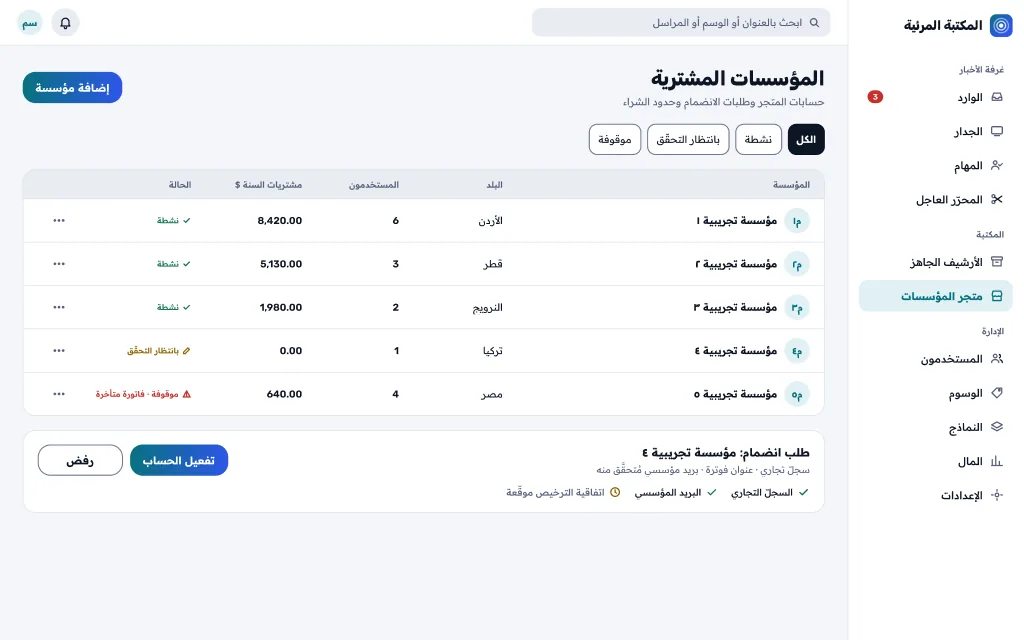
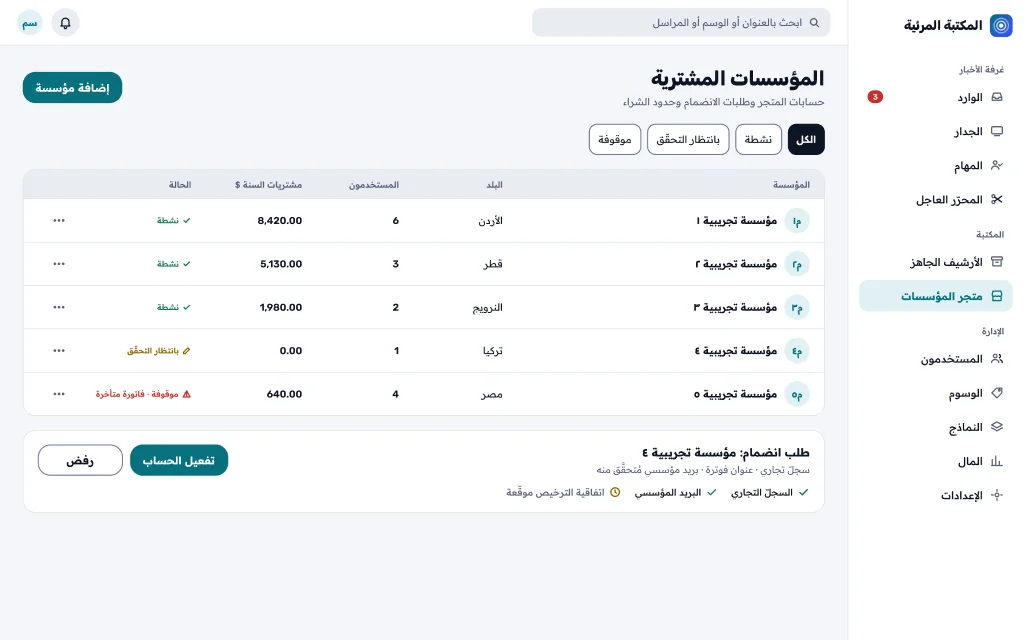
design: web follow-ups after #460
- Primary buttons on every merged web screen are Solid now: A1 to A6,
  W7, W8 and P1 were still on the gradient that the spec reserves for
  the reporter app's send button. Re-exported.
- S4: the order column shows the short order UUID, as in S7, and the
  note says a licence is tied to its order (no invoice object yet).
- S3: the summary shows the total only (no subtotal or tax lines),
  consistent with S7 and the contract.
- Upload stages: the duplicate card's footnote is written for the
  producer, and the invalid_file copy no longer mentions images.
- web-v2.md: English strings for S5 to S7 and the upload stages, with
  proposed message keys.
- Checked W3, W4 and every other merged web frame: no test source is
  shown as the real network; only the platform brand remains.

Claude-Session: https://claude.ai/code/session_01HY7py4Kwox1KypVxZuFGKP

Changed region(s): [[0.0312, 0.0938, 0.125, 0.1875], [0.125, 0.6875, 0.2188, 0.75]]

diff --git a/docs/design/specs/web-v2.md b/docs/design/specs/web-v2.md
@@ -35,8 +35,8 @@
 | W10 | لوحة التنبيهات | تنسدل من الجرس؛ تبويبات الكل/مهامي/المتجر؛ العاجل والحسّاس أولًا بأيقونة وكلمة |
 | S1 | المتجر: الكتالوج | بحث بالحدث والمكان والتاريخ؛ شرائح المحافظة؛ لا اسم مراسل ولا مصدر |
 | S2 | المتجر: صفحة المادة | معاينة بعلامة مائية وجودة أقل؛ «صُوّر» بالتاريخ؛ المحافظة وحدها؛ ثلاثة تراخيص بسعر كلٍّ منها؛ زرّ أساسي واحد |
-| S3 | السلة والدفع | رقم أمر شراء اختياري؛ سطر ثابت: «بيئة دفع تجريبية: لا يُخصم مال حقيقي» |
-| S4 | تراخيصي | الترخيص مرتبط بفاتورته وبصمة الملف؛ المنتهي كلمة بلون التحذير وزرّ «تجديد» |
+| S3 | السلة والدفع | الملخّص هو الإجمالي (`total`) وحده، بلا مجموع فرعي ولا ضريبة (فجوة عقد كما في S7)؛ رقم أمر شراء اختياري (ليس في `Order` بعد)؛ سطر ثابت: «بيئة دفع تجريبية: لا يُخصم مال حقيقي» |
+| S4 | تراخيصي | الترخيص مرتبط بطلبه، والطلب يُعرَّف بأول ثمانية محارف من معرّفه كما في S7، وببصمة الملف؛ المنتهي كلمة بلون التحذير وزرّ «تجديد» |
 | A1 | المستخدمون والأدوار | شارات الدور والحالة؛ مصفوفة «ما يستطيعه كل دور» بعلامة وكلمة |
 | A2 | الوسوم | المقترحة بترتيب ظهورها للمراسل؛ 1–40 حرفًا و12 وسمًا للمادة (ADR 0086)؛ الدمج يحفظ الأصل في السجلّ |
 | A3 | منشئ النماذج | إصدار للنموذج؛ التغيير يسري على الإرسالات الجديدة فقط؛ حقول العقد لا تُحذف؛ «المكان» موسوم «مشفّر» |
@@ -85,7 +85,7 @@
 | E5 | لا صلاحية | يقول الدور وما يملكه؛ والشريط الجانبي لا يعرض ما لا يملكه الدور (المحرّر: غرفة الأخبار والأرشيف). «اطلب الوصول» **مقترح** خارج الخطة والعقد، يحتاج موافقة المنسّق قبل بنائه (ومعه حدّ طول للسبب وتهريبه وتحديد معدّل وسجل تدقيق) |
 | E6 | المتجر بلا نتائج | يقول لماذا (المواد تظهر بعد المراجعة واعتماد الحقوق)، و«أشعرني حين تصل» (البحث المحفوظ بتنبيه في الخطة)؛ الفعل الأساسي ذهبي ثابت كما في S1 وS3 |
 
-**الأزرار:** الفعل الأساسي في الويب «Solid» ثابت؛ التدرّج لزرّ الإرسال في تطبيق المراسل وأيقونته وحدهما (`design-system-v2.md`). وزرّا A1 «دعوة مستخدم» وA4 «صرف المحدّد» المدموجان بالتدرّج يُصحَّحان مع شاشات الإدارة في طلب لاحق.
+**الأزرار:** الفعل الأساسي في الويب «Solid» ثابت؛ التدرّج لزرّ الإرسال في تطبيق المراسل وأيقونته وحدهما (`design-system-v2.md`). والأزرار الأساسية المدموجة بالتدرّج صارت «Solid» في A1 إلى A6 وW7 وW8 وP1.
 
 ## الإنجليزية والوضع الداكن لغرفة الأخبار (صفحة Figma `Web: EN, Dark & Flows`)
 
@@ -104,7 +104,7 @@
 | S5 | قبول الدعوة | رمز الدعوة يُسلَّم كرمز الاستعادة، فالصفحة إكمال استعادة (`/auth/recovery/complete`): كلمة مرور من 12 حرفًا فأكثر وتأكيدها، ثم ربط المصادقة الثنائية (TOTP)، وهو إلزامي عند أول دخول. الخطوتان ظاهرتان في رأس البطاقة. البريد محدّد بالدعوة ولا يُغيَّر. حساب العضو يُنشأ عند الدعوة (`inviteBuyerMember`، الحالة `invited`)، فسطر التجاهل يقول إن الرابط ينتهي وحده، ولا يعد بأن لا حساب. **فجوة عقد:** عرض اسم المؤسسة والدور والبريد يحتاج قراءة الدعوة برمزها، وهذه القراءة ليست في العقد. بدونها تعرض الصفحة «عيّن كلمة المرور» وحدها. إن أُضيفت فبثلاثة شروط: ردّ `401` واحد لرمز مجهول أو منتهٍ أو مستهلك (بلا مؤسسة ولا بريد ولا فرق في الزمن)، وحدّ معدّل بمفتاح بصمة الرمز كما في `/auth/recovery/complete`، ولا يُسجَّل الرمز |
 | S5b | رابط الدعوة غير صالح | العقد يردّ `401` للرمز المنتهي والمستهلك معًا، فالصفحة لا تعرف السبب: «لم يعد هذا الرابط صالحًا». الرابط لمدة أقصاها 24 ساعة (`invite_token_expires_at`). المخرج: «اطلب من مدير مؤسستك أن يدعوك من جديد». لا يقول هل البريد مسجَّل |
 | S6 | مؤسسة قيد التحقّق | `pending_verification` لا تشتري، والكتالوج يردّ `403 forbidden_scope`، فلا يُعرض كتالوج باهت. البطاقة تقول ما تراجعه الإدارة (البنود الثلاثة في A5)، بلا حالة لكل بند لأنها ليست في العقد. «ما تستطيعه الآن»: دعوة الأعضاء ضمن المقاعد (`seats` و`active_members`)، والعقد لا يمنع الدعوة قبل التفعيل. `suspended` بالنمط نفسه: الشراء والتنزيل الجديد متوقفان. **لا إشعار بالتفعيل** اليوم: لا حدث لتغيّر حالة المؤسسة ولا مُرسل إلى `billing_email`، فالبطاقة لا تعد به. إن أُريد فهو تغيير عقد (حدث في Outbox) |
-| S7 | الفاتورة | ورقة فاتحة (وضع `Light` صريح) داخل المتجر الداكن، فعلها «طباعة» من المتصفح. لافتة ثابتة: «مستند تجريبي وليس فاتورة ضريبية، ولم يُخصم مال حقيقي» ما دام المزوّد تجريبيًا. البيانات من `Order` (البنود وسعر كلٍّ منها و`total` و`paid_at`)، و`BuyerOrganization` (`legal_name` و`country` و`billing_email`)، و`License` (`license_number`). الطلب يُعرَّف بأول ثمانية محارف من معرّفه (UUID)، لأن `Order` بلا رقم مقروء. الأسعار بالدولار والعملة في رأس العمود، والإجمالي تحت الجدول هو `total` وحده. **فجوات عقد، فلا تُرسم:** كائن الفاتورة وترقيمها ورقم طلب مقروء، وبيانات المُصدِر القانونية (سطر مكانها يقول ذلك)، والمجموع الفرعي والضريبة (في الخطة تُطرح الضرائب من سعر البيع في معادلة النصيب، والأساس تختاره الإدارة)، وملف PDF للفاتورة (مقترح). ورقم أمر الشراء (هنا وفي S3) ليس في `Order` بعد، وسطر الضريبة في S3 المدموجة يُعالج بالطريقة نفسها في طلب لاحق |
+| S7 | الفاتورة | ورقة فاتحة (وضع `Light` صريح) داخل المتجر الداكن، فعلها «طباعة» من المتصفح. لافتة ثابتة: «مستند تجريبي وليس فاتورة ضريبية، ولم يُخصم مال حقيقي» ما دام المزوّد تجريبيًا. البيانات من `Order` (البنود وسعر كلٍّ منها و`total` و`paid_at`)، و`BuyerOrganization` (`legal_name` و`country` و`billing_email`)، و`License` (`license_number`). الطلب يُعرَّف بأول ثمانية محارف من معرّفه (UUID)، لأن `Order` بلا رقم مقروء. الأسعار بالدولار والعملة في رأس العمود، والإجمالي تحت الجدول هو `total` وحده. **فجوات عقد، فلا تُرسم:** كائن الفاتورة وترقيمها ورقم طلب مقروء، وبيانات المُصدِر القانونية (سطر مكانها يقول ذلك)، والمجموع الفرعي والضريبة (في الخطة تُطرح الضرائب من سعر البيع في معادلة النصيب، والأساس تختاره الإدارة)، وملف PDF للفاتورة (مقترح). ورقم أمر الشراء (هنا وفي S3) ليس في `Order` بعد |
 
 ## رفع المادة المُنتَجة (المونتير)
 
@@ -124,17 +124,75 @@
 | 5 | نتحقّق | `completed` | وصل الملف كاملًا والخادم يحسب البصمة. لا يُقبل قبلها |
 | 6 | اكتمل | `verified` | «وصل وتحقّقنا من بصمته»، و«استبدل الملف» قبل التسليم، و«سلّم للمحرّر» فعّال |
 | 7 | فشل | `failed` | السبب من `failure_reason` بكلمات (الجدول أدناه)، و«ارفع من جديد». المرسوم `checksum_mismatch` |
-| 8 | مكرّر | `deduplicated` | «تعرّفنا على هذا الملف، فلا حاجة لرفعه ثانية». المطابقة بالبصمة الكاملة على كل الملفات لا على المادة، فلا تقول البطاقة لمن هو. «سلّم للمحرّر» معطّل: تسليم ملف يطابق ملفًا قد يخصّ مادة أخرى سؤال حقوق للمنسّق |
+| 8 | مكرّر | `deduplicated` | «تعرّفنا على هذا الملف، فلا حاجة لرفعه ثانية». المطابقة بالبصمة الكاملة على كل الملفات لا على المادة، فلا تقول البطاقة لمن هو. «سلّم للمحرّر» معطّل، وتحته للمونتير: «لا يُسلَّم ملف موجود من قبل من هنا. إن كان هو ما تريد تسليمه فاسأل المحرّر». تسليم ملف يطابق ملفًا قد يخصّ مادة أخرى سؤال حقوق للمنسّق |
 
 | `failure_reason` | ما تقوله البطاقة |
 |---|---|
 | `checksum_mismatch` | «لم يطابق ما وصل الملفَّ المرسَل، فلم نحفظه. غالبًا انقطع جزء أثناء النقل، فارفعه من جديد» |
-| `invalid_file` | «هذا الملف ليس فيديو أو صورة نقبلها. اختر MP4 أو MOV» |
+| `invalid_file` | «هذا الملف ليس فيديو نقبله. اختر MP4 أو MOV» |
 | `expired` | «انتهت مهلة هذه الجلسة قبل أن يكتمل الرفع. ابدأ رفعًا جديدًا» (من يعود بعد أيام) |
 | `aborted` | «ألغيتَ الرفع، وحذفنا ما وصل منه» (هذه وحدها يضمن العقد فيها حذف ما وصل) |
 | `storage_error` | «تعذّر حفظ الملف عندنا، والخطأ ليس منك. أعد المحاولة بعد قليل» |
 
 اسم الملف لاتيني في العيّنة لأن الاسم المختلط اللغة ينقلب اتجاهه في Figma. في التنفيذ يُعزل اسم الملف والأحجام والنِّسب (`<bdi>`)، والحجم بوحدة عربية داخل الجملة («ميغابايت»). واسم الملف يُعرض في البطاقة لصاحب الجلسة وحده، ولا يُنقل إلى إشعار أو سجل.
+
+## النصوص بالإنجليزية (المتجر والرفع)
+
+مقابل نصوص S5 إلى S7 ومراحل الرفع، لتُنقل إلى `apps/web/messages/{ar,en}.json` عند البناء. المفاتيح مقترحة. وW1 وW2 بالإنجليزية في لقطاتهما (`w01-inbox-en` و`w02-material-en`).
+
+| المفتاح | العربية | English |
+|---|---|---|
+| `store.invite.badge` | دعوة إلى المتجر | Store invitation |
+| `store.invite.title` | انضمّ إلى {org} | Join {org} |
+| `store.invite.lead` | دعاك مدير المؤسسة إلى المتجر بدور «{role}». الرابط صالح حتى {time}. | Your organization's admin invited you to the store as {role}. The link works until {time}. |
+| `store.invite.stepPassword` | ١ كلمة المرور | 1 Password |
+| `store.invite.stepTotp` | ٢ المصادقة الثنائية | 2 Two-step verification |
+| `store.invite.passwordHint` | 12 حرفًا على الأقل. البريد محدّد بالدعوة ولا يُغيَّر. | At least 12 characters. The email comes from the invitation and can't be changed. |
+| `store.invite.submit` | عيّن كلمة المرور وتابع | Set password and continue |
+| `store.invite.next` | الخطوة التالية: تربط تطبيق المصادقة (TOTP)، وهو إلزامي عند أول دخول. | Next, you'll link an authenticator app (TOTP). It's required at first sign-in. |
+| `store.invite.ignore` | لم تتوقّع هذه الدعوة؟ تجاهلها، وينتهي الرابط خلال 24 ساعة. | Weren't expecting this? Ignore it, and the link expires within 24 hours. |
+| `store.invite.invalidTitle` | لم يعد هذا الرابط صالحًا | This link is no longer valid |
+| `store.invite.invalidBody` | رابط الدعوة يصلح مرة واحدة ولمدة أقصاها 24 ساعة. اطلب من مدير مؤسستك أن يدعوك من جديد، فيصلك رابط آخر. | Invitation links work once, for up to 24 hours. Ask your organization's admin to invite you again for a new link. |
+| `store.invite.signIn` | لديك حساب؟ سجّل الدخول | Have an account? Sign in |
+| `store.org.pendingBadge` | قيد التحقّق | Pending verification |
+| `store.org.pendingTitle` | مؤسستك قيد التحقّق | Your organization is being verified |
+| `store.org.pendingBody` | الكتالوج والشراء يُفتحان حين تعتمد إدارة المتجر مؤسستك. | The catalog and purchasing open once the store team approves your organization. |
+| `store.org.checks` | ما تراجعه الإدارة | What the team reviews |
+| `store.org.checkRegistry` | السجلّ التجاري للمؤسسة | Commercial registration |
+| `store.org.checkEmail` | البريد المؤسسي لمديرها | The admin's work email |
+| `store.org.checkAgreement` | قبول اتفاقية الترخيص | Acceptance of the licence agreement |
+| `store.org.nowTitle` | ما تستطيعه الآن | What you can do now |
+| `store.org.nowSeats` | دعوة أعضاء فريقك · المقاعد: {used} من {seats} | Invite your team · Seats: {used} of {seats} |
+| `store.org.invite` | ادعُ عضوًا | Invite a member |
+| `store.invoice.title` | فاتورة | Invoice |
+| `store.invoice.order` | طلب {id} | Order {id} |
+| `store.invoice.sandbox` | بيئة دفع تجريبية: هذا مستند تجريبي وليس فاتورة ضريبية، ولم يُخصم مال حقيقي. | Test payment environment: this is a test document, not a tax invoice, and no real money was charged. |
+| `store.invoice.to` | إلى | Billed to |
+| `store.invoice.status` | الحالة | Status |
+| `store.invoice.paid` | مدفوعة | Paid |
+| `store.invoice.colItem` | المادة | Item |
+| `store.invoice.colLicence` | الترخيص | Licence |
+| `store.invoice.colLicenceNo` | رقم الترخيص | Licence number |
+| `store.invoice.colPrice` | السعر (USD) | Price (USD) |
+| `store.invoice.total` | الإجمالي (USD) | Total (USD) |
+| `store.invoice.print` | طباعة | Print |
+| `upload.produced.title` | رفع المادة المُنتَجة | Upload the produced version |
+| `upload.produced.created` | جهّزنا جلسة الرفع، ويبدأ النقل خلال لحظات. | Upload session ready. Transfer starts in a moment. |
+| `upload.produced.progress` | وصل {sent} من {total} ميغابايت ({pct}%) · بقي نحو {eta} | {sent} of {total} MB received ({pct}%) · about {eta} left |
+| `upload.produced.keepOpen` | لا تغلق التبويب: إغلاقه يوقف النقل، ونكمل من حيث توقّف حين تعود. | Keep this tab open. Closing it pauses the transfer, and we'll continue from where it stopped. |
+| `upload.produced.offline` | انقطع الاتصال. ما وصل محفوظ، ونستأنف وحدنا حين يعود. | You're offline. What arrived is safe, and we'll resume when you reconnect. |
+| `upload.produced.reselect` | المتصفح لا يحتفظ بالملف بعد الإغلاق: اختر الملف نفسه لنكمل من {pct}%. ملف مختلف يبدأ رفعًا جديدًا. | The browser doesn't keep the file after closing. Choose the same file to continue from {pct}%. A different file starts a new upload. |
+| `upload.produced.verifying` | وصل الملف كاملًا. نحسب بصمته على الخادم ونطابقها بما أُرسل. | The whole file arrived. We're checking its fingerprint on the server. |
+| `upload.produced.verified` | وصل وتحقّقنا من بصمته. | Received and fingerprint verified. |
+| `upload.produced.duplicate` | تعرّفنا على هذا الملف، فلا حاجة لرفعه ثانية. | We already have this file, so there's no need to upload it again. |
+| `upload.produced.duplicateHandoff` | لا يُسلَّم ملف موجود من قبل من هنا. إن كان هو ما تريد تسليمه فاسأل المحرّر. | A file that already exists can't be handed off from here. If it's the one you mean to deliver, ask the editor. |
+| `upload.produced.handoff` | سلّم للمحرّر | Hand to editor |
+| `upload.produced.gate` | يُفعَّل بعد أن يصل الملف ونتحقّق من بصمته. | Available once the file arrives and its fingerprint is verified. |
+| `upload.failed.checksum_mismatch` | لم يطابق ما وصل الملفَّ المرسَل، فلم نحفظه. غالبًا انقطع جزء أثناء النقل، فارفعه من جديد. | What arrived didn't match the file you sent, so we didn't keep it. Part of it was probably lost in transfer. Please upload it again. |
+| `upload.failed.invalid_file` | هذا الملف ليس فيديو نقبله. اختر MP4 أو MOV. | This file isn't a video we accept. Choose MP4 or MOV. |
+| `upload.failed.expired` | انتهت مهلة هذه الجلسة قبل أن يكتمل الرفع. ابدأ رفعًا جديدًا. | This session expired before the upload finished. Start a new upload. |
+| `upload.failed.aborted` | ألغيتَ الرفع، وحذفنا ما وصل منه. | You cancelled the upload, and we deleted what arrived. |
+| `upload.failed.storage_error` | تعذّر حفظ الملف عندنا، والخطأ ليس منك. أعد المحاولة بعد قليل. | We couldn't store the file. It's not your fault. Try again shortly. |
 
 ## قواعد مشتركة
 
